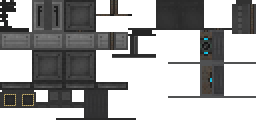
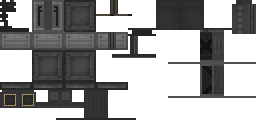
finishied gui, jei, lang work

Changed region(s): [[0.7812, 0.5, 0.8438, 0.75], [0.7812, 0.25, 0.8438, 0.4688]]

diff --git a/src/main/java/net/michanide/mekanismneutronactivator/client/gui/GuiFusionNeutronActivator.java b/src/main/java/net/michanide/mekanismneutronactivator/client/gui/GuiFusionNeutronActivator.java
@@ -1,0 +1,46 @@
+package net.michanide.mekanismneutronactivator.client.gui;
+
+import javax.annotation.Nonnull;
+
+import com.mojang.blaze3d.vertex.PoseStack;
+
+import mekanism.api.recipes.cache.CachedRecipe.OperationTracker.RecipeError;
+import mekanism.client.gui.GuiConfigurableTile;
+import mekanism.client.gui.element.gauge.GaugeType;
+import mekanism.client.gui.element.gauge.GuiGasGauge;
+import mekanism.client.gui.element.progress.GuiProgress;
+import mekanism.client.gui.element.progress.ProgressType;
+import mekanism.client.jei.MekanismJEIRecipeType;
+import mekanism.common.inventory.container.tile.MekanismTileContainer;
+import mekanism.common.inventory.warning.WarningTracker.WarningType;
+import net.michanide.mekanismneutronactivator.common.tile.machine.TileEntityFusionNeutronActivator;
+import net.minecraft.network.chat.Component;
+import net.minecraft.world.entity.player.Inventory;
+
+public class GuiFusionNeutronActivator extends GuiConfigurableTile<TileEntityFusionNeutronActivator, MekanismTileContainer<TileEntityFusionNeutronActivator>>{
+    
+    public GuiFusionNeutronActivator(MekanismTileContainer<TileEntityFusionNeutronActivator> container, Inventory inv, Component title) {
+        super(container, inv, title);
+        inventoryLabelY += 2;
+        titleLabelY = 4;
+        dynamicSlots = true;
+    }
+
+    @Override
+    protected void addGuiElements() {
+        super.addGuiElements();
+        addRenderableWidget(new GuiGasGauge(() -> tile.inputTank, () -> tile.getGasTanks(null), GaugeType.STANDARD, this, 25, 13))
+              .warning(WarningType.NO_MATCHING_RECIPE, tile.getWarningCheck(RecipeError.NOT_ENOUGH_INPUT));
+        addRenderableWidget(new GuiGasGauge(() -> tile.outputTank, () -> tile.getGasTanks(null), GaugeType.STANDARD, this, 133, 13))
+              .warning(WarningType.NO_SPACE_IN_OUTPUT, tile.getWarningCheck(RecipeError.NOT_ENOUGH_OUTPUT_SPACE));
+        addRenderableWidget(new GuiProgress(tile::getActive, ProgressType.LARGE_RIGHT, this, 64, 39).jeiCategories(MekanismJEIRecipeType.ACTIVATING))
+              .warning(WarningType.INPUT_DOESNT_PRODUCE_OUTPUT, tile.getWarningCheck(RecipeError.INPUT_DOESNT_PRODUCE_OUTPUT));
+    }
+
+    @Override
+    protected void drawForegroundText(@Nonnull PoseStack matrix, int mouseX, int mouseY) {
+        renderTitleText(matrix);
+        drawString(matrix, playerInventoryTitle, inventoryLabelX, inventoryLabelY, titleTextColor());
+        super.drawForegroundText(matrix, mouseX, mouseY);
+    }
+}

diff --git a/src/main/java/net/michanide/mekanismneutronactivator/client/Clientregistration.java b/src/main/java/net/michanide/mekanismneutronactivator/client/Clientregistration.java
@@ -4,17 +4,21 @@ import mekanism.client.ClientRegistrationUtil;
 import mekanism.client.ClientTickHandler;
 import mekanism.client.render.RenderTickHandler;
 import mekanism.client.sound.SoundHandler;
+import net.michanide.mekanismneutronactivator.client.gui.GuiFusionNeutronActivator;
 import net.michanide.mekanismneutronactivator.client.model.ModelFusionNeutronActivator;
 import net.michanide.mekanismneutronactivator.client.render.item.block.RenderFusionNeutronActivatorItem;
 import net.michanide.mekanismneutronactivator.client.render.tileentity.RenderFusionNeutronActivator;
 import net.michanide.mekanismneutronactivator.common.MekanismNeutronActivator;
 import net.michanide.mekanismneutronactivator.common.registries.MNABlocks;
+import net.michanide.mekanismneutronactivator.common.registries.MNAContainerTypes;
 import net.michanide.mekanismneutronactivator.common.registries.MNATileEntityTypes;
 import net.minecraftforge.api.distmarker.Dist;
 import net.minecraftforge.client.event.EntityRenderersEvent;
 import net.minecraftforge.client.event.RegisterClientReloadListenersEvent;
 import net.minecraft.client.renderer.RenderType;
+import net.minecraft.world.inventory.MenuType;
 import net.minecraftforge.common.MinecraftForge;
+import net.minecraftforge.event.RegistryEvent;
 import net.minecraftforge.eventbus.api.EventPriority;
 import net.minecraftforge.eventbus.api.SubscribeEvent;
 import net.minecraftforge.fml.common.Mod;
@@ -47,4 +51,8 @@ public class ClientRegistration {
         event.registerReloadListener(RenderFusionNeutronActivatorItem.RENDERER);
     }
     
+    @SubscribeEvent(priority = EventPriority.LOW)
+    public static void registerContainers(RegistryEvent.Register<MenuType<?>> event) {
+        ClientRegistrationUtil.registerScreen(MNAContainerTypes.FUSION_NEUTRON_ACTIVATOR, GuiFusionNeutronActivator::new);
+    }
 }

diff --git a/src/main/java/net/michanide/mekanismneutronactivator/client/jei/MNAJEI.java b/src/main/java/net/michanide/mekanismneutronactivator/client/jei/MNAJEI.java
@@ -1,0 +1,34 @@
+package net.michanide.mekanismneutronactivator.client.jei;
+
+import javax.annotation.Nonnull;
+
+import mekanism.client.jei.CatalystRegistryHelper;
+import mekanism.client.jei.MekanismJEI;
+import mekanism.client.jei.MekanismJEIRecipeType;
+import mezz.jei.api.IModPlugin;
+import mezz.jei.api.JeiPlugin;
+import mezz.jei.api.registration.IRecipeCatalystRegistration;
+import mezz.jei.api.registration.ISubtypeRegistration;
+import net.michanide.mekanismneutronactivator.common.MekanismNeutronActivator;
+import net.michanide.mekanismneutronactivator.common.registries.MNABlocks;
+import net.minecraft.resources.ResourceLocation;
+
+@JeiPlugin
+public class MNAJEI implements IModPlugin{
+
+    @Nonnull
+    @Override
+    public ResourceLocation getPluginUid() {
+        return MekanismNeutronActivator.rl("jei_plugin");
+    }
+
+    @Override
+    public void registerItemSubtypes(@Nonnull ISubtypeRegistration registry) {
+        MekanismJEI.registerItemSubtypes(registry, MNABlocks.BLOCKS.getAllBlocks());
+    }
+
+    @Override
+    public void registerRecipeCatalysts(@Nonnull IRecipeCatalystRegistration registry) {
+        CatalystRegistryHelper.register(registry, MekanismJEIRecipeType.ACTIVATING, MNABlocks.FUSION_NEUTRON_ACTIVATOR);
+    }
+}

diff --git a/src/main/java/net/michanide/mekanismneutronactivator/common/MNALang.java b/src/main/java/net/michanide/mekanismneutronactivator/common/MNALang.java
@@ -1,7 +1,6 @@
 package net.michanide.mekanismneutronactivator.common;
 
 import mekanism.api.text.ILangEntry;
-import mekanism.common.Mekanism;
 import net.minecraft.Util;
 
 public enum MNALang implements ILangEntry{
@@ -11,7 +10,7 @@ public enum MNALang implements ILangEntry{
     private final String key;
 
     MNALang(String type, String path) {
-        this(Util.makeDescriptionId(type, Mekanism.rl(path)));
+        this(Util.makeDescriptionId(type, MekanismNeutronActivator.rl(path)));
     }
 
     MNALang(String key) {
